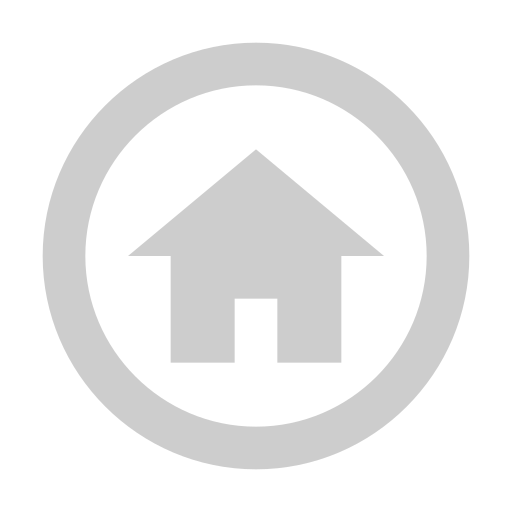
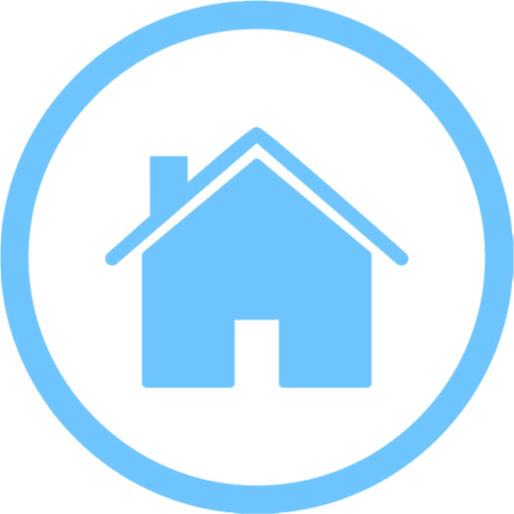
Add Home Page Animation

diff --git a/js/List.js b/js/List.js
@@ -28,10 +28,6 @@ const ListPage = ({ route, navigation }) => {
         }
     };
 
-    const handleHome = () => {
-      navigation.navigate('Home');
-    };
-
     const goToNote = (index) => {
         navigation.navigate('RatingForm', { placeName: data[index].name });
     };
@@ -52,6 +48,32 @@ const ListPage = ({ route, navigation }) => {
 */
     const createPopup = (index) => {
       navigation.navigate('InfoPopup', {placeID : index});
+    };
+
+    const handleHisto = () => {
+        Alert.alert(
+            "Fonctionnalité à venir",
+            "Les profils ne sont pas encore implémentés",
+            [{ text: "OK", onPress: () => console.log("OK Pressed") }],
+            { cancelable: true }
+        );
+    };
+
+    const handleHome = () => {
+        navigation.navigate('Home');
+    };
+
+    const handleLogout = () => {
+        auth.signOut().then(() => {
+            navigation.dispatch(
+                CommonActions.reset({
+                    index: 0,
+                    routes: [{ name: 'Login' }],
+                })
+            );
+        }).catch((error) => {
+            console.error("Sign out error", error);
+        });
     };
 
     return (
@@ -91,6 +113,17 @@ const ListPage = ({ route, navigation }) => {
                     </View>
                 ))}
             </ScrollView>
+            <View style={styles.botContainer}>
+                <Pressable onPress={handleHisto}>
+                    <Image style={styles.iconHisto} source={require('../assets/icon_histo.png')} />
+                </Pressable>
+                <Pressable onPress={handleHome}>
+                    <Image style={styles.iconHome} source={require('../assets/icon_home.png')} />
+                </Pressable>
+                <Pressable onPress={handleLogout}>
+                    <Image style={styles.iconOut} source={require('../assets/icon_out.png')} />
+                </Pressable>
+            </View>
         </View>
     );
 };
@@ -110,31 +143,34 @@ const CustomInput = ({ imageSource, onChangeText, value, placeholder }) => (
 
 const styles = StyleSheet.create({
     container: {
-      flex: 1,
-      alignItems: 'center',
-      backgroundColor: '#384454',
+        flex: 1,
+        backgroundColor: '#384454',
+        justifyContent: 'center',
+        alignItems: 'center',
     },
     topContainer: {
         width: '100%',
-        height: height * 0.1,
+        height: '18%',
         backgroundColor: '#232B35',
         flexDirection: 'row',
         alignItems: 'center',
         justifyContent: 'space-between',
         paddingHorizontal: 20,
+        paddingVertical: 10,
+        marginTop: height * -0.07,
         marginBottom: height * 0.03
     },
     logo: {
-        marginTop: "5%",
         width: width * 0.3,
-        height: '100%',
+        height: height * 0.08,
         resizeMode: 'contain',
+        marginTop: height * 0.105
     },
     iconProfil: {
-        marginTop: "5%",
         width: width * 0.1,
         height: width * 0.1,
         resizeMode: 'contain',
+        marginTop: height * 0.105
     },
     title: {
         fontSize: 24,
@@ -182,7 +218,8 @@ const styles = StyleSheet.create({
     },
     listContainer: {
         width: '100%',
-        paddingVertical: 20,
+        marginTop: height * 0.02,
+        marginBottom: height * 0.08
     },
     item: {
         flexDirection: 'row',
@@ -198,6 +235,30 @@ const styles = StyleSheet.create({
         marginRight: 10,
         resizeMode: 'contain'
     },
+    botContainer: {
+        width: '100%',
+        height: height * 0.08,
+        backgroundColor: '#232B35',
+        flexDirection: 'row',
+        alignItems: 'center',
+        justifyContent: 'space-between',
+        paddingHorizontal: 20,
+        position: 'absolute',
+        bottom: 0
+    },
+    iconHisto: {
+        width: width * 0.12,
+        height: width * 0.12,
+    },
+    iconHome: {
+        marginTop: height * 0.005,
+        width: width * 0.12,
+        height: width * 0.12,
+    },
+    iconOut: {
+        width: width * 0.12,
+        height: width * 0.12,
+    }
 });
 
 export default ListPage;

diff --git a/js/Home2.js b/js/Home2.js
@@ -6,7 +6,7 @@ import { auth } from '../Firebase';
 
 const { width, height } = Dimensions.get('window');
 
-const HomePage = ({ route, navigation }) => {
+const HomePage2 = ({ route, navigation }) => {
     const scaleAnim = useRef(new Animated.Value(1)).current;
     const opacityAnim = useRef(new Animated.Value(1)).current;
     const rotateAnim = useRef(new Animated.Value(0)).current;
@@ -68,7 +68,7 @@ const HomePage = ({ route, navigation }) => {
             })
         ]).start(() => {
             rotateAnim.setValue(0);
-            navigation.navigate('Home2');
+            navigation.navigate('Home');
         });
     };
 
@@ -106,17 +106,18 @@ const HomePage = ({ route, navigation }) => {
     return (
         <SafeAreaView style={styles.container}>
             <View style={styles.topContainer}>
-                <Image style={styles.logo} source={require('../assets/real_logo.png')} />
-                <Image style={styles.iconProfil} source={require('../assets/icon_profil.png')} />
+                <Image style={styles.logo} source={require('../assets/real_logo2.png')} />
+                <Image style={styles.iconProfil} source={require('../assets/icon_profil2.png')} />
             </View>
             <View style={styles.mainContentContainer}>
                 <View style={styles.sloganContainer}>
                     <Text style={styles.slogan1}>AIxplorez</Text>
-                    <Text style={styles.slogan2}>SELON VOS ENVIES !!!</Text>
+                    <Text style={styles.slogan2}>EN DEHORS DE VOTRE</Text>
+                    <Text style={styles.slogan2}>ZONE DE CONFORT !!!</Text>
                 </View>
                 <View style={styles.logoContainer}>
                     <Pressable onPress={startAnimation}>
-                        <Animated.Image source={require('../assets/icon_location.png')}
+                        <Animated.Image source={require('../assets/icon_location2.png')}
                             style={[styles.search,
                                 {
                                     transform: [{ scale: scaleAnim }],
@@ -127,18 +128,18 @@ const HomePage = ({ route, navigation }) => {
             </View>
             <View style={styles.changeContainer}>
                     <Pressable onPress={handleChange}>
-                        <Animated.Image style={[styles.change, { transform: [{ rotate: rotation }] }]} source={require('../assets/icon_uzumaki.png')} />
+                        <Animated.Image style={[styles.change, { transform: [{ rotate: rotation }] }]} source={require('../assets/icon_uzumaki2.png')} />
                     </Pressable>
                 </View>
             <View style={styles.botContainer}>
                 <Pressable onPress={handleHisto}>
-                    <Image style={styles.iconHisto} source={require('../assets/icon_histo.png')} />
+                    <Image style={styles.iconHisto} source={require('../assets/icon_histo2.png')} />
                 </Pressable>
                 <Pressable onPress={handleHome}>
-                    <Image style={styles.iconHome} source={require('../assets/icon_home.png')} />
+                    <Image style={styles.iconHome} source={require('../assets/icon_home2.png')} />
                 </Pressable>
                 <Pressable onPress={handleLogout}>
-                    <Image style={styles.iconOut} source={require('../assets/icon_out.png')} />
+                    <Image style={styles.iconOut} source={require('../assets/icon_out2.png')} />
                 </Pressable>
             </View>
         </SafeAreaView>
@@ -244,4 +245,4 @@ const styles = StyleSheet.create({
     }
 });
 
-export default HomePage;
+export default HomePage2;

diff --git a/App.js b/App.js
@@ -12,6 +12,7 @@ import RatingForm from '../AIxplore/js/RatingForm';
 import Filters from '../AIxplore/js/Filters';
 import HomePage from './js/Home';
 import InfoPopup from './js/InfoPopup';
+import HomePage2 from '../AIxplore/js/Home2';
 
 const Stack = createNativeStackNavigator();
 
@@ -30,6 +31,7 @@ function App() {
                 <Stack.Screen name="Filters" component={Filters} />
                 <Stack.Screen name="Home" component={HomePage} />
                 <Stack.Screen name="InfoPopup" component={InfoPopup} />
+                <Stack.Screen name="Home2" component={HomePage2} />
             </Stack.Navigator>
         </NavigationContainer>
     );
